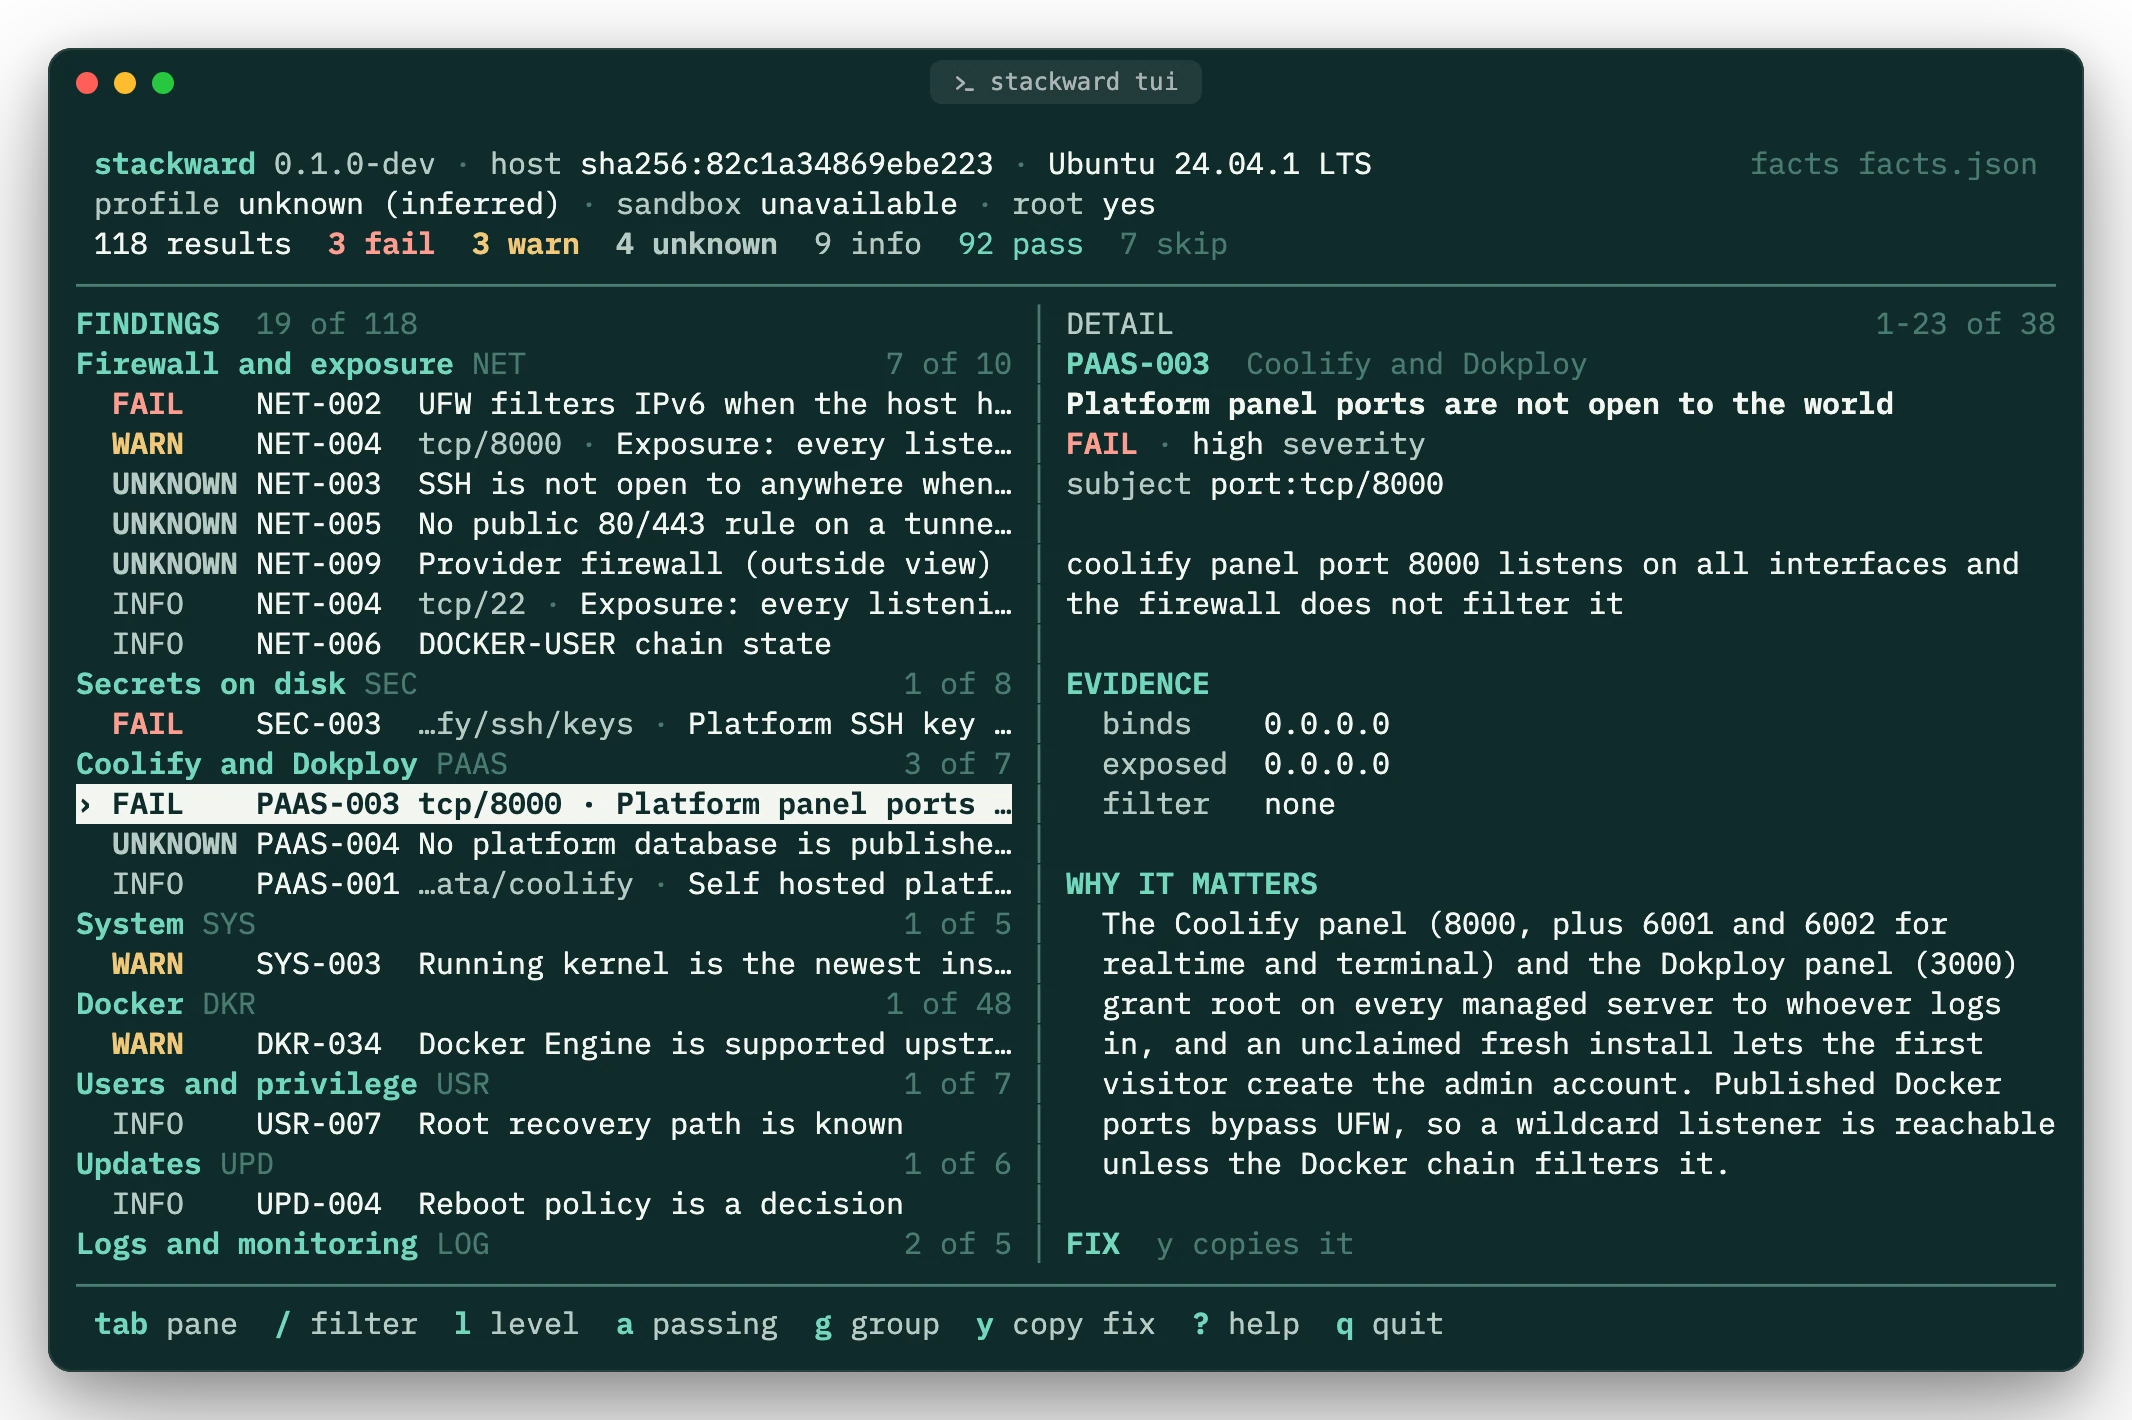
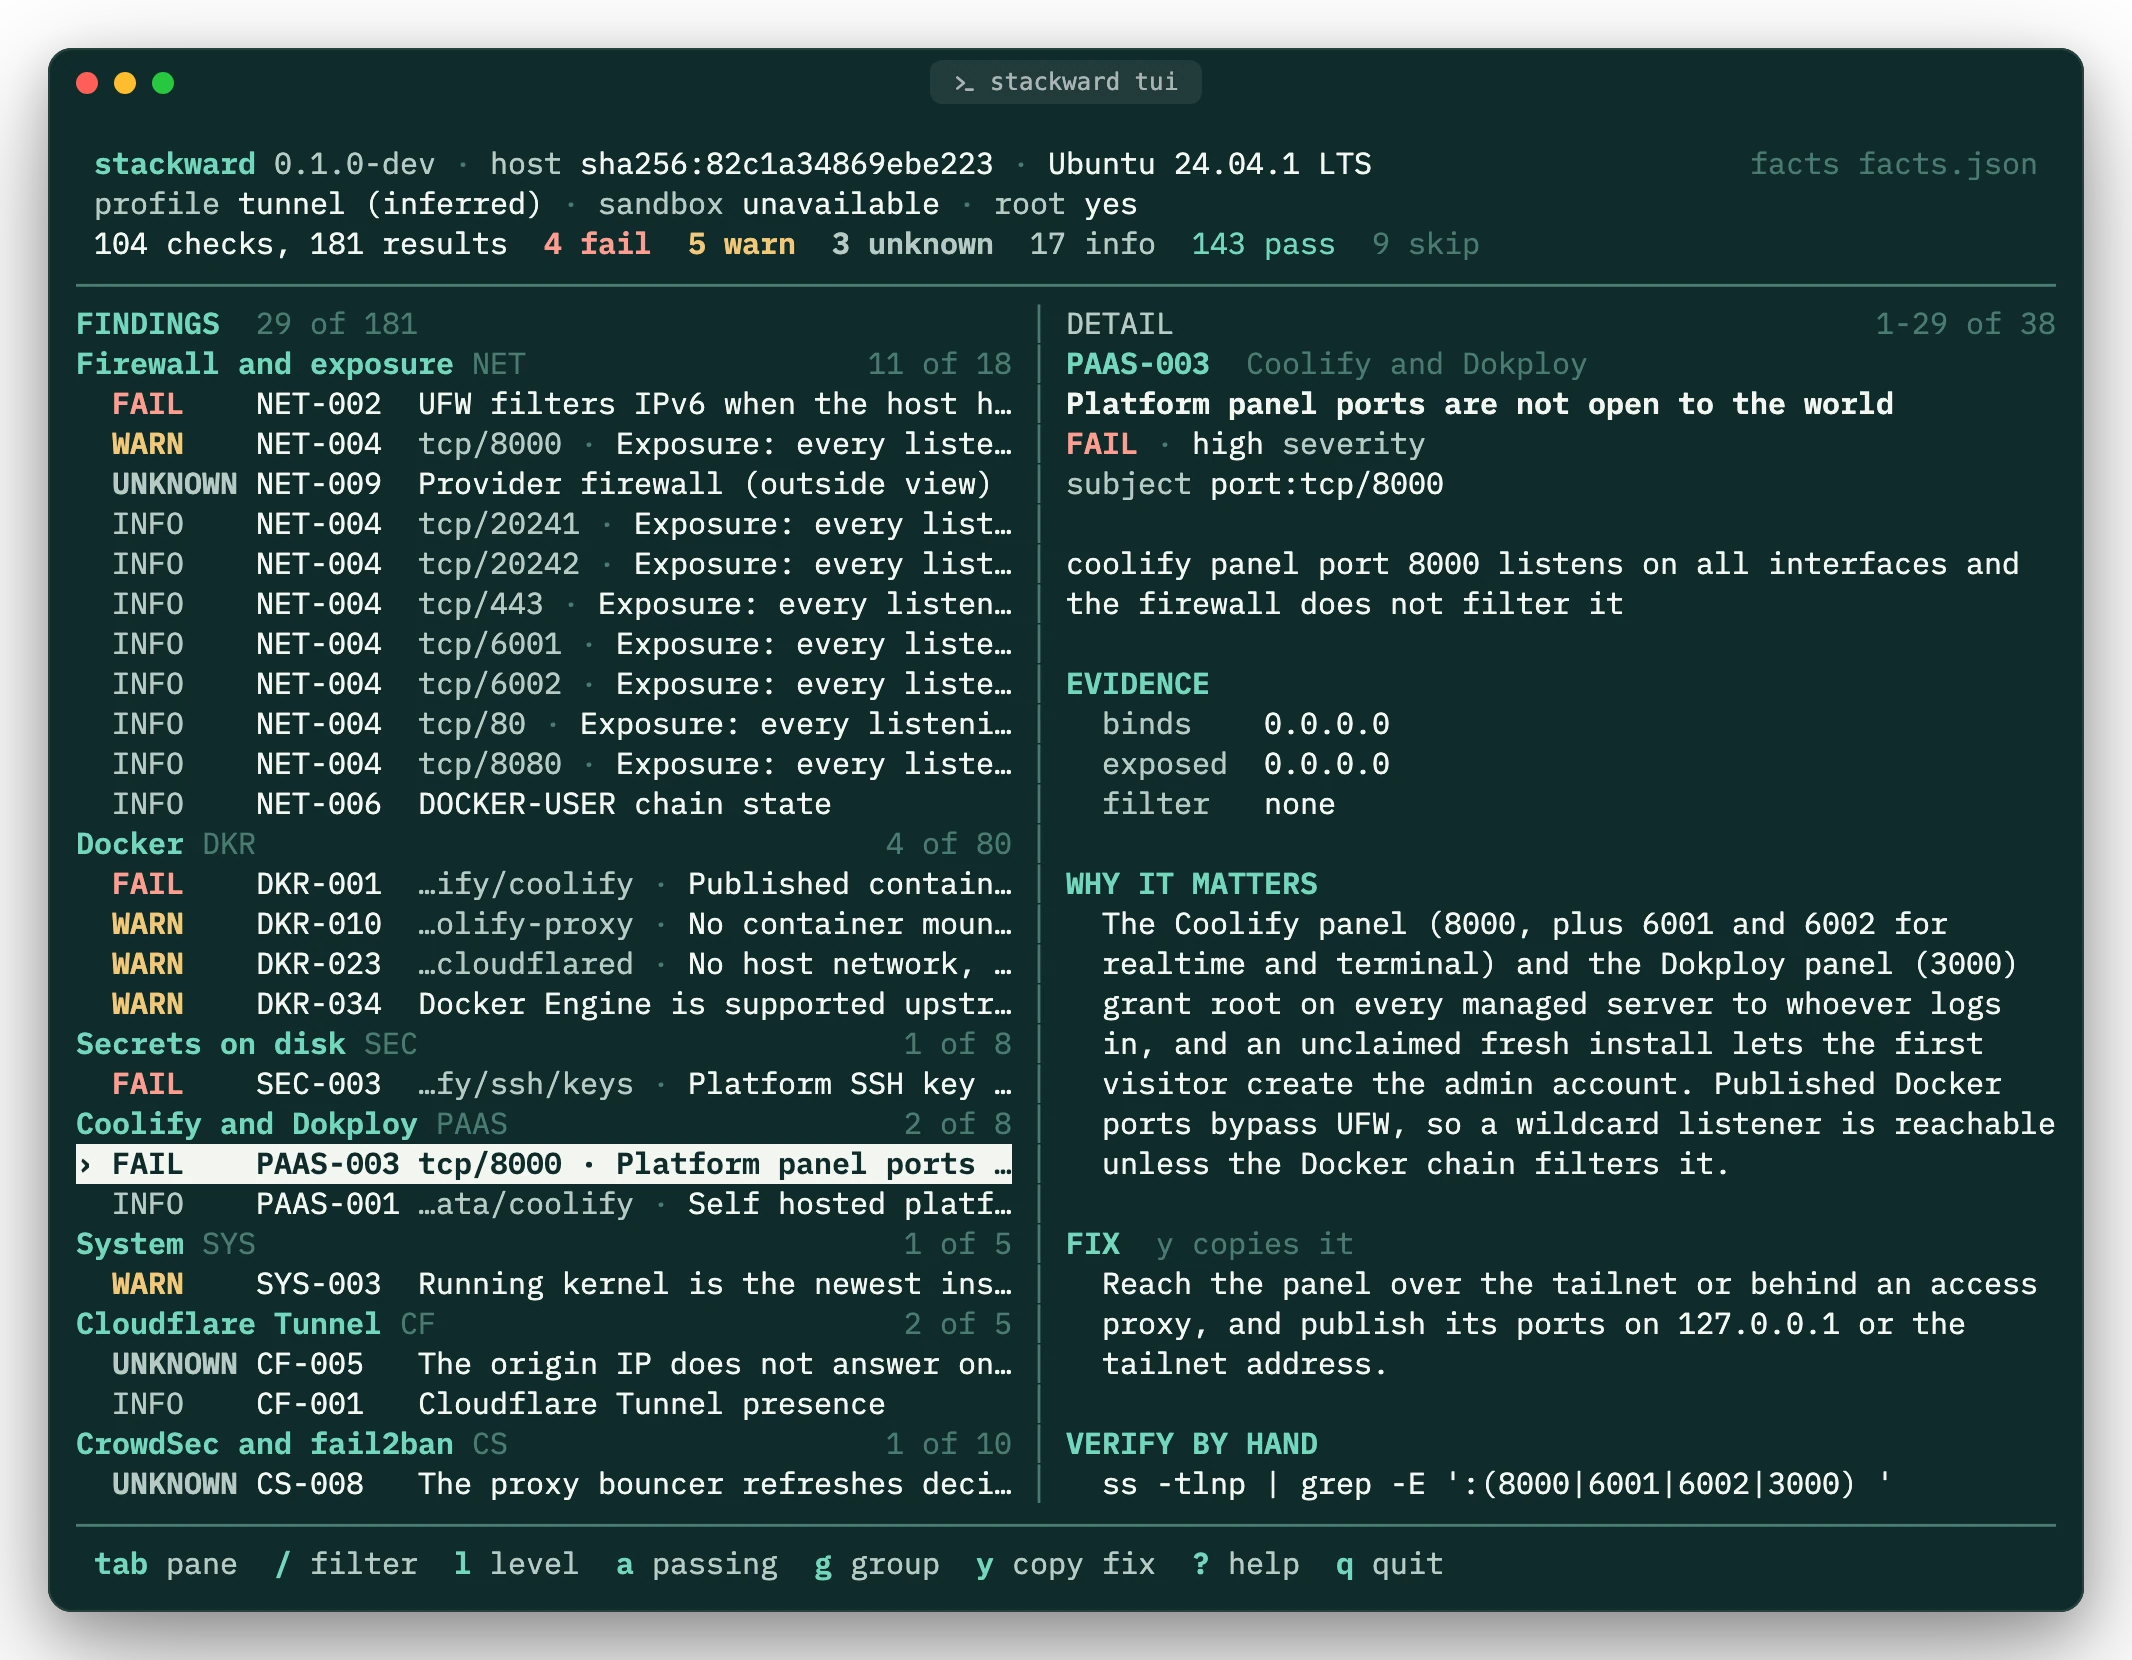
docs(docs): recapture the readme pictures and bring the counts in line with the catalog

Changed region(s): [[0.031, 0.093, 0.9906, 0.9915], [0.031, 0.031, 0.9597, 0.062], [0.8049, 0.093, 0.9597, 0.1239]]

diff --git a/README.md b/README.md
@@ -25,7 +25,7 @@
     <a href="SECURITY.md"><strong>Security</strong></a>
   </p>
 
-  <img src="assets/showcase/audit.webp" width="100%" alt="The end of a stackward audit report for a Coolify host behind a tunnel: a Docker Engine warning, info lines for logs and backups, a failure for an open platform SSH key folder, a failure for a panel port open to the world, one unknown, and the summary line: 3 fail, 3 warn, 4 unknown, 9 info, 92 pass, 7 skip.">
+  <img src="assets/showcase/audit.webp" width="100%" alt="The end of a stackward audit report for a Coolify host behind a tunnel: info lines for logs and backups, a failure for an open platform SSH key folder, a failure for a panel port open to the world, one unknown, and the summary line: 4 fail, 5 warn, 3 unknown, 17 info, 143 pass, 9 skip.">
   <p><sub>Real output of <code>stackward audit</code> over the saved facts in <a href="test/fixtures/showcase-coolify-tunnel">test/fixtures/showcase-coolify-tunnel</a>, rendered by <a href="assets/showcase">assets/showcase</a>.</sub></p>
 </div>
 
@@ -53,26 +53,28 @@ evidence it saw and the fix, and anything it could not inspect is reported as
 
 ## What it checks
 
-80 audit checks in 11 groups and 6 outside view checks today, each with its own page in the
+104 audit checks in 14 groups and 6 outside view checks today, each with its own page in the
 [checks catalog](docs/checks/index.md):
 
 | Group | Checks | What it looks at |
 |---|---:|---|
 | `SYS` System | 5 | Tested distribution, pending reboot, running kernel, clock sync, disk space |
-| `SSH` SSH | 14 | The effective config from `sshd -T`: password and root login, drop-in order, where sshd listens, host and authorized keys, weak algorithms |
+| `SSH` SSH | 16 | The effective config from `sshd -T`: password and root login, drop-in order, where sshd listens, host and authorized keys, weak algorithms |
 | `USR` Users and privilege | 7 | Extra uid 0 accounts, empty passwords, the cloud default account, sudoers, docker group members, unused logins |
 | `NET` Firewall and exposure | 9 | UFW defaults and IPv6, every listening socket and who can reach it, `DOCKER-USER`, ufw-docker |
-| `DKR` Docker | 15 | API on TCP, socket mounts and socket proxies, sensitive mounts, root and privileged containers, capabilities, shared networks, log rotation, pinned images, engine support |
+| `DKR` Docker | 16 | API on TCP, socket mounts and socket proxies, sensitive mounts, root and privileged containers, capabilities, shared networks, log rotation, pinned images, engine support |
 | `UPD` Updates | 6 | Automatic security updates, the security pocket, pending security updates, release support, reboot policy |
 | `KRN` Kernel settings | 5 | Forwarding and reverse path filter where Docker runs, network and kernel hardening sysctls, IPv6 router advertisements |
 | `LOG` Logs and monitoring | 5 | Journal size cap and persistence, proxy log rotation, a metrics agent |
 | `SEC` Secrets on disk | 7 | Permissions, never contents: platform `.env` files, the platform SSH key folder, private keys, Docker client config, the proxy dynamic folder |
-| `PAAS` Coolify and Dokploy | 5 | Platform detection, proxy and panel ports, published platform databases, Swarm ports |
+| `PAAS` Coolify and Dokploy | 6 | Platform detection, proxy and panel ports, published platform databases, Swarm ports |
 | `BAK` Backups | 2 | Platform database backups on the host, backup tools present |
+| `TS` Tailscale | 5 | Logged in and running, node key expiry, Funnel and Serve exposure, firewall rules that name `tailscale0`, Tailnet Lock |
+| `CF` Cloudflare Tunnel | 5 | Tunnel presence and connectors, proxy not reachable on a public address, token not on the command line, origin not answering from outside |
+| `CS` CrowdSec and fail2ban | 10 | CrowdSec running, bouncers pulling decisions, L7 bouncer behind a tunnel, whitelists, proxy log acquisition, local API bind, public SSH brute force protection |
 | `PRB` Outside view | 6 | Run by `stackward probe` from another machine: public SSH, web ports on the raw IP, Docker API, panels and dashboards, databases, the app hostname over HTTPS |
 
-The PRB checks run in `stackward probe`, not in `audit`. Tailscale,
-Cloudflare Tunnel, CrowdSec and fail2ban checks are being built.
+The PRB checks run in `stackward probe`, not in `audit`.
 
 ## The read only promise
 
@@ -260,7 +262,7 @@ was available and whether the sandbox was applied. Fix the highest severity
 
 ## Coverage and limits
 
-- **Root matters.** 45 of the 80 checks need root to read what they judge
+- **Root matters.** 53 of the 104 checks need root to read what they judge
   (sshd's effective config, firewall rules, Docker, secret file
   permissions). Without root they report `unknown` with the reason, and the
   coverage line counts them. Run with `sudo` for full coverage.
@@ -279,8 +281,7 @@ could be inspected. It does not mean the server is secure.
 
 ## Roadmap
 
-- **v0.1:** the read only audit: the checks above, plus Tailscale, Cloudflare
-  Tunnel, CrowdSec and fail2ban, and signed releases.
+- **v0.1:** the read only audit: the checks above, and signed releases.
 - **v0.2:** `stackward plan` and `stackward apply`. A plan file lists each
   change with a diff, a risk class and how to undo it, and changes nothing.
   Apply keeps backups and a journal; SSH, firewall and user changes run with
